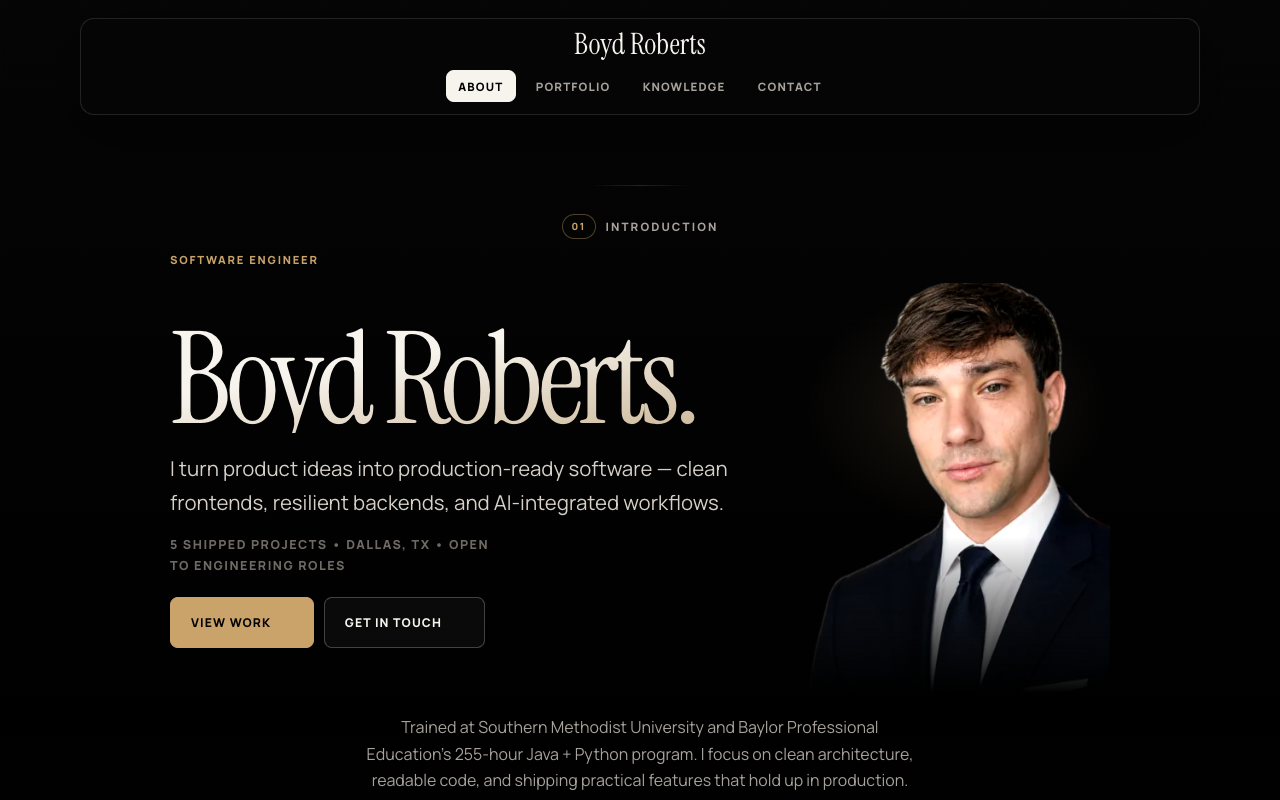
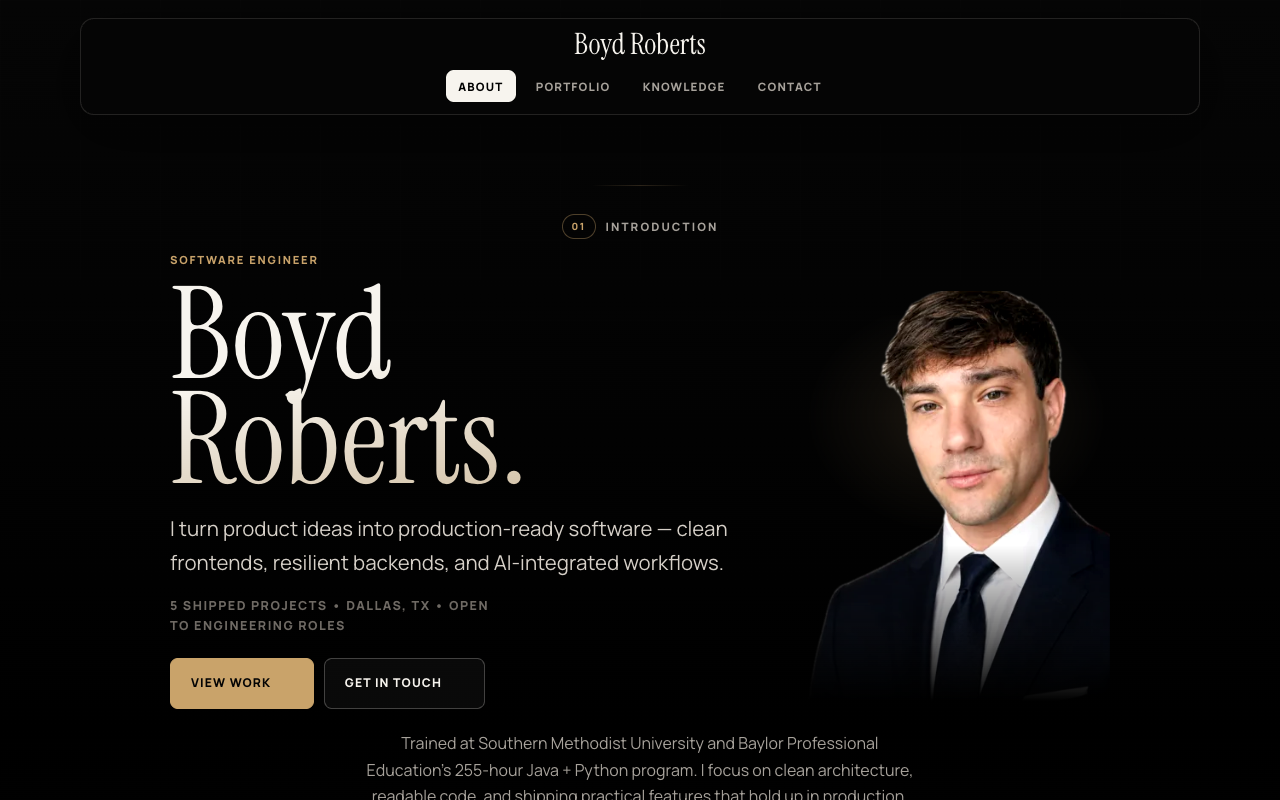
polish final visual presentation

diff --git a/src/editorial.css b/src/editorial.css
@@ -355,7 +355,7 @@ a {
   font-family: "Instrument Serif", Georgia, serif;
   font-size: clamp(4rem, 10vw, 8rem);
   font-weight: 400;
-  letter-spacing: -0.045em;
+  letter-spacing: 0;
   line-height: 0.82;
   text-wrap: balance;
   background: linear-gradient(170deg, var(--ink) 35%, #cdb99a 100%);
@@ -598,7 +598,7 @@ a {
   font-family: "Instrument Serif", Georgia, serif;
   font-size: clamp(3.2rem, 8vw, 6.4rem);
   font-weight: 400;
-  letter-spacing: -0.04em;
+  letter-spacing: 0;
   line-height: 0.84;
   text-wrap: balance;
 }
@@ -762,7 +762,7 @@ a {
   font-size: clamp(1.9rem, 3.2vw, 3rem);
   font-weight: 400;
   line-height: 0.94;
-  letter-spacing: -0.02em;
+  letter-spacing: 0;
 }
 
 .project-content .project-category + h3 {
@@ -1221,16 +1221,13 @@ a {
   position: relative;
   border-color: var(--gold-border);
   box-shadow: var(--shadow), 0 0 0 1px rgba(201, 163, 106, 0.06);
-  grid-template-rows: minmax(320px, 0.9fr) auto;
+  grid-template-rows: auto minmax(320px, 0.9fr) auto;
 }
 
 .project-featured-tag {
-  position: absolute;
-  top: 14px;
-  left: 50%;
-  transform: translateX(-50%);
+  justify-self: center;
   z-index: 4;
-  margin: 0;
+  margin: 16px 16px 12px;
   padding: 0.32rem 0.85rem;
   border: 1px solid var(--gold-border);
   border-radius: 999px;
@@ -1241,6 +1238,10 @@ a {
   font-weight: var(--weight-label);
   letter-spacing: 0.18em;
   text-transform: uppercase;
+}
+
+.project-card--featured .project-image {
+  object-position: center center;
 }
 
 /* GitHub CTA tucked inside language map panel */
@@ -1261,5 +1262,9 @@ a {
     text-align: center;
     line-height: 1.55;
     letter-spacing: 0.1em;
+  }
+
+  .project-card--featured .project-image {
+    object-position: 18% center;
   }
 }
